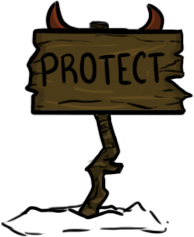
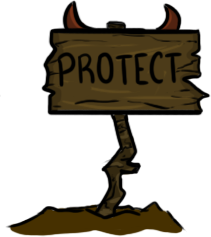
Crate Healthbar, Sign Art Fix

diff --git a/Assets/Scripts/CandyCrate.cs b/Assets/Scripts/CandyCrate.cs
@@ -7,9 +7,11 @@ public class CandyCrate : MonoBehaviour
     ParticleSystem ps;
     [SerializeField] private int _maxHealth = 100;
     private int _currentHealth;
+    private SpriteRenderer _hpsr;
 
     private void Awake()
     {
+        _hpsr = transform.GetChild(0).GetComponent<SpriteRenderer>();
         ps = GetComponent<ParticleSystem>();
         _currentHealth = _maxHealth;
     }
@@ -17,6 +19,9 @@ public class CandyCrate : MonoBehaviour
     public void TakeDamage(int amount)
     {
         _currentHealth -= amount;
+
+        _hpsr.transform.localScale = new Vector3((float)_currentHealth / (float)_maxHealth * 1.5f, .15f, 1);
+
         Debug.Log("Current Candy:" + _currentHealth);
         ps.Play();
     }
